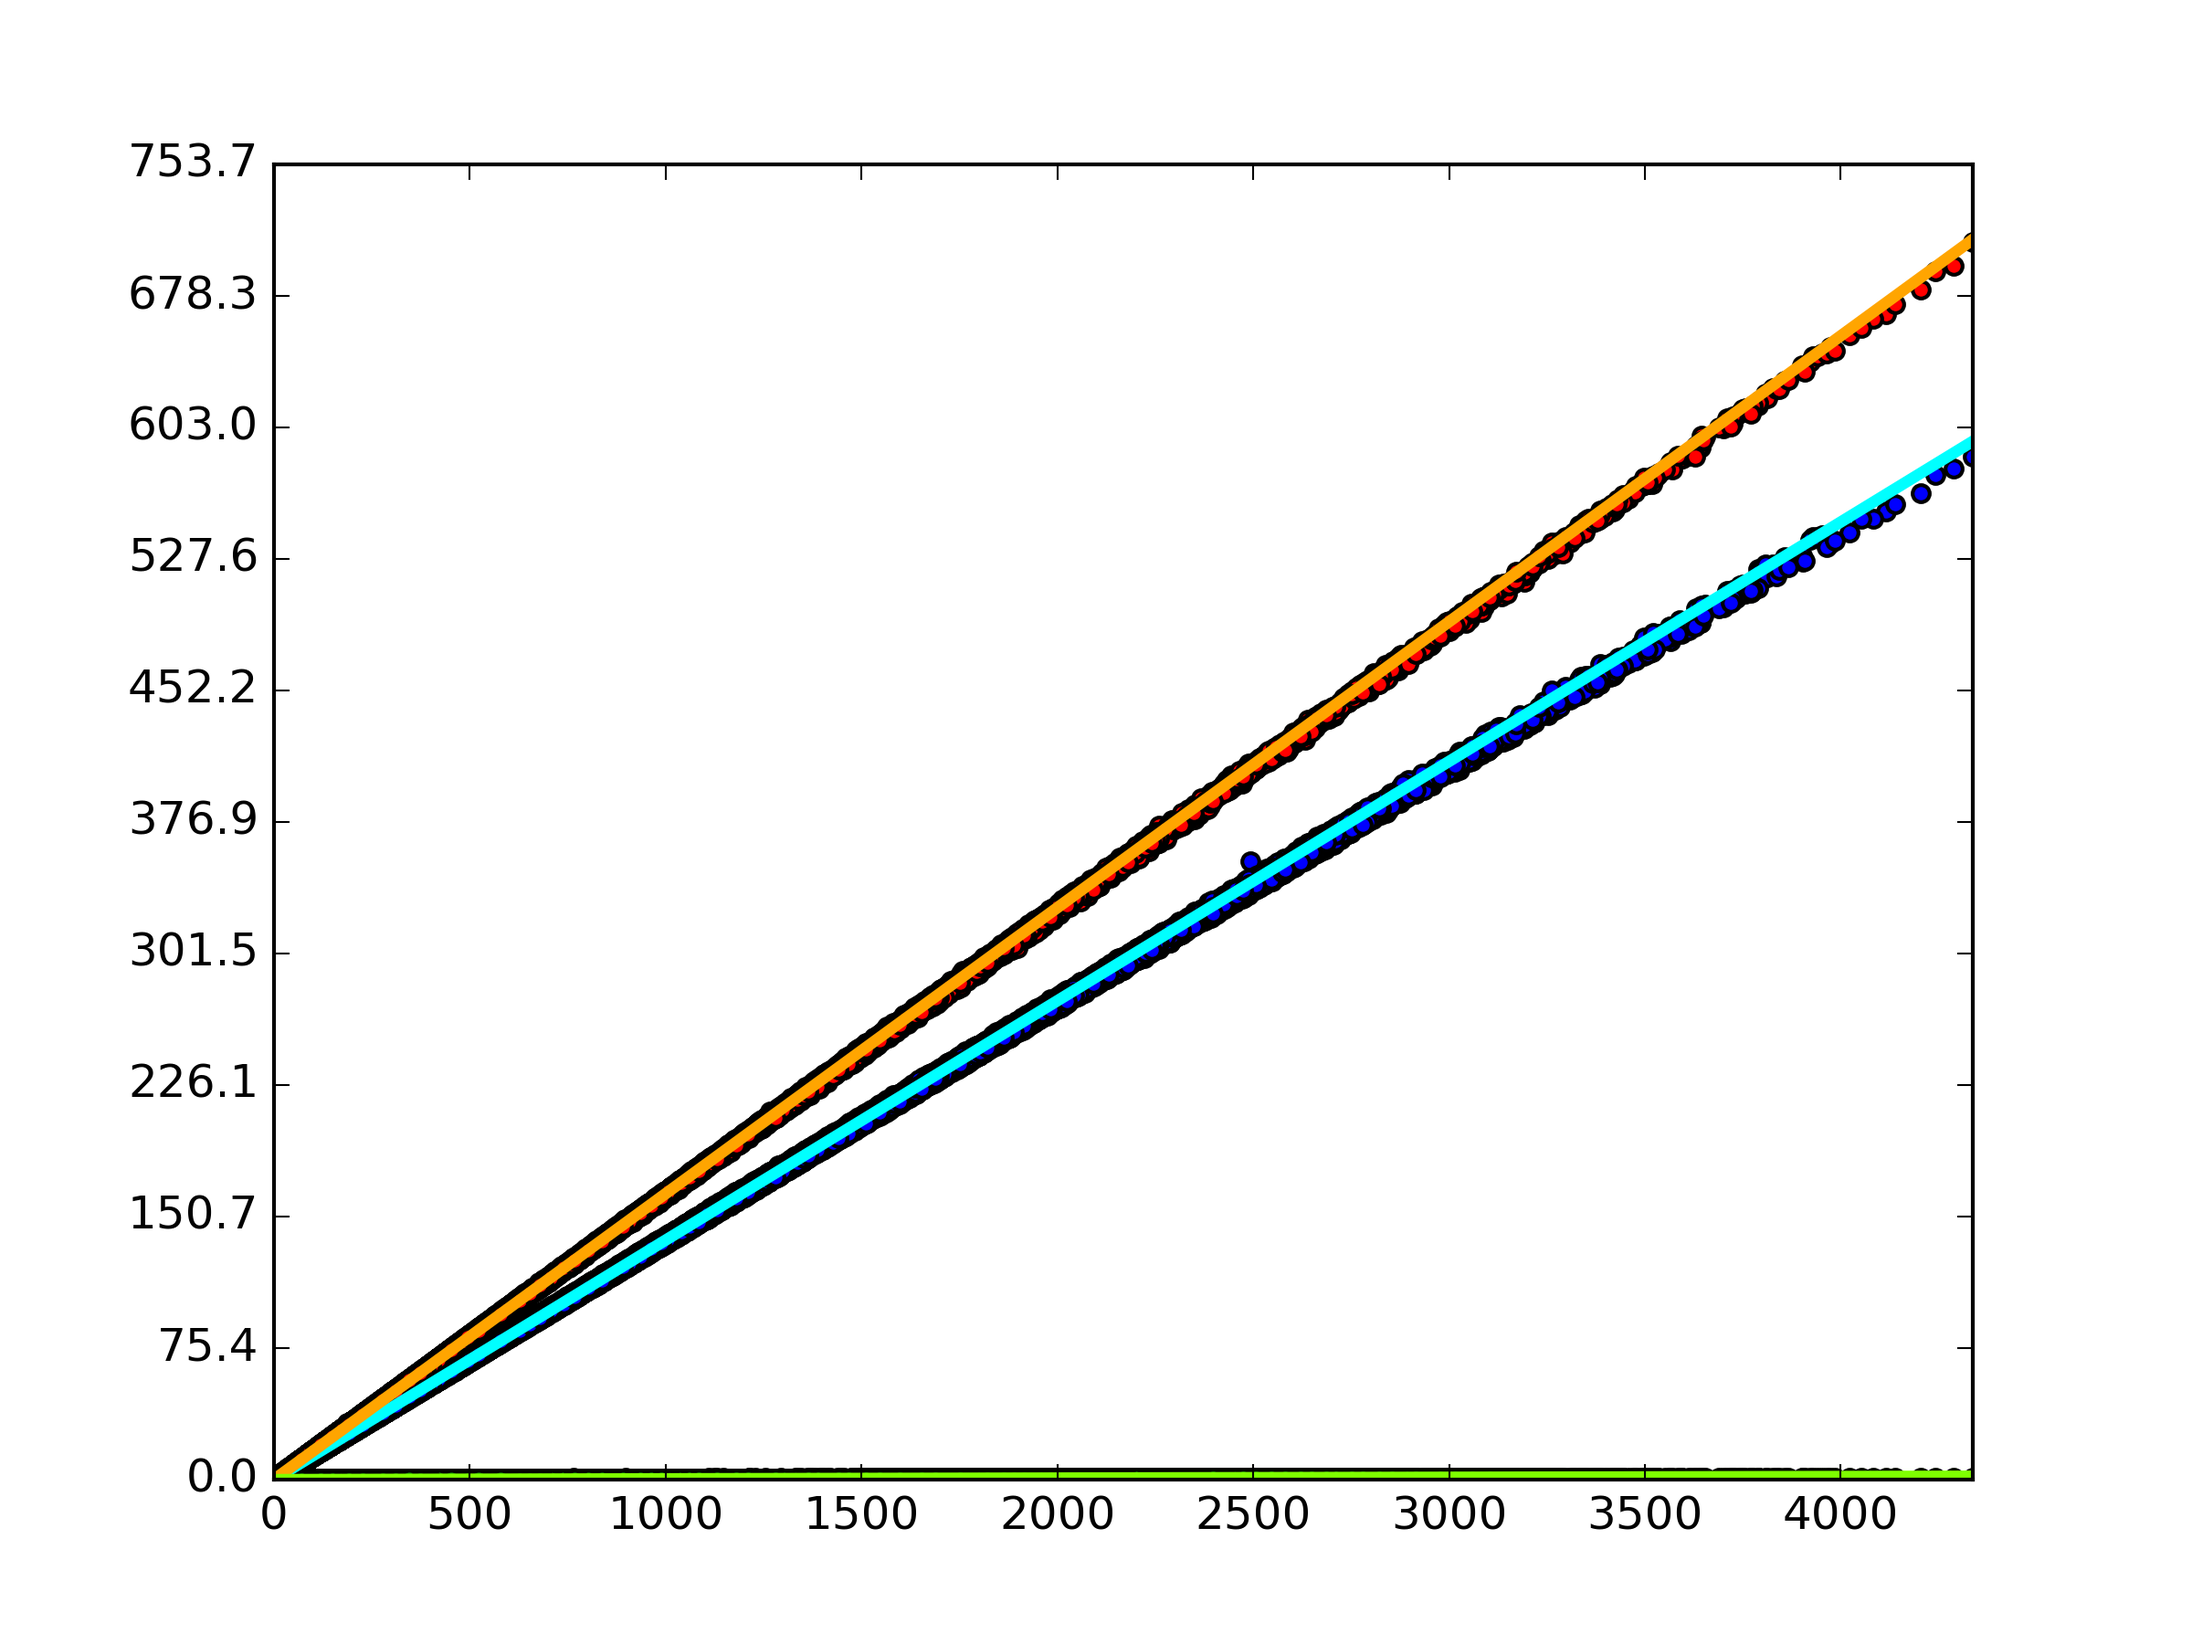
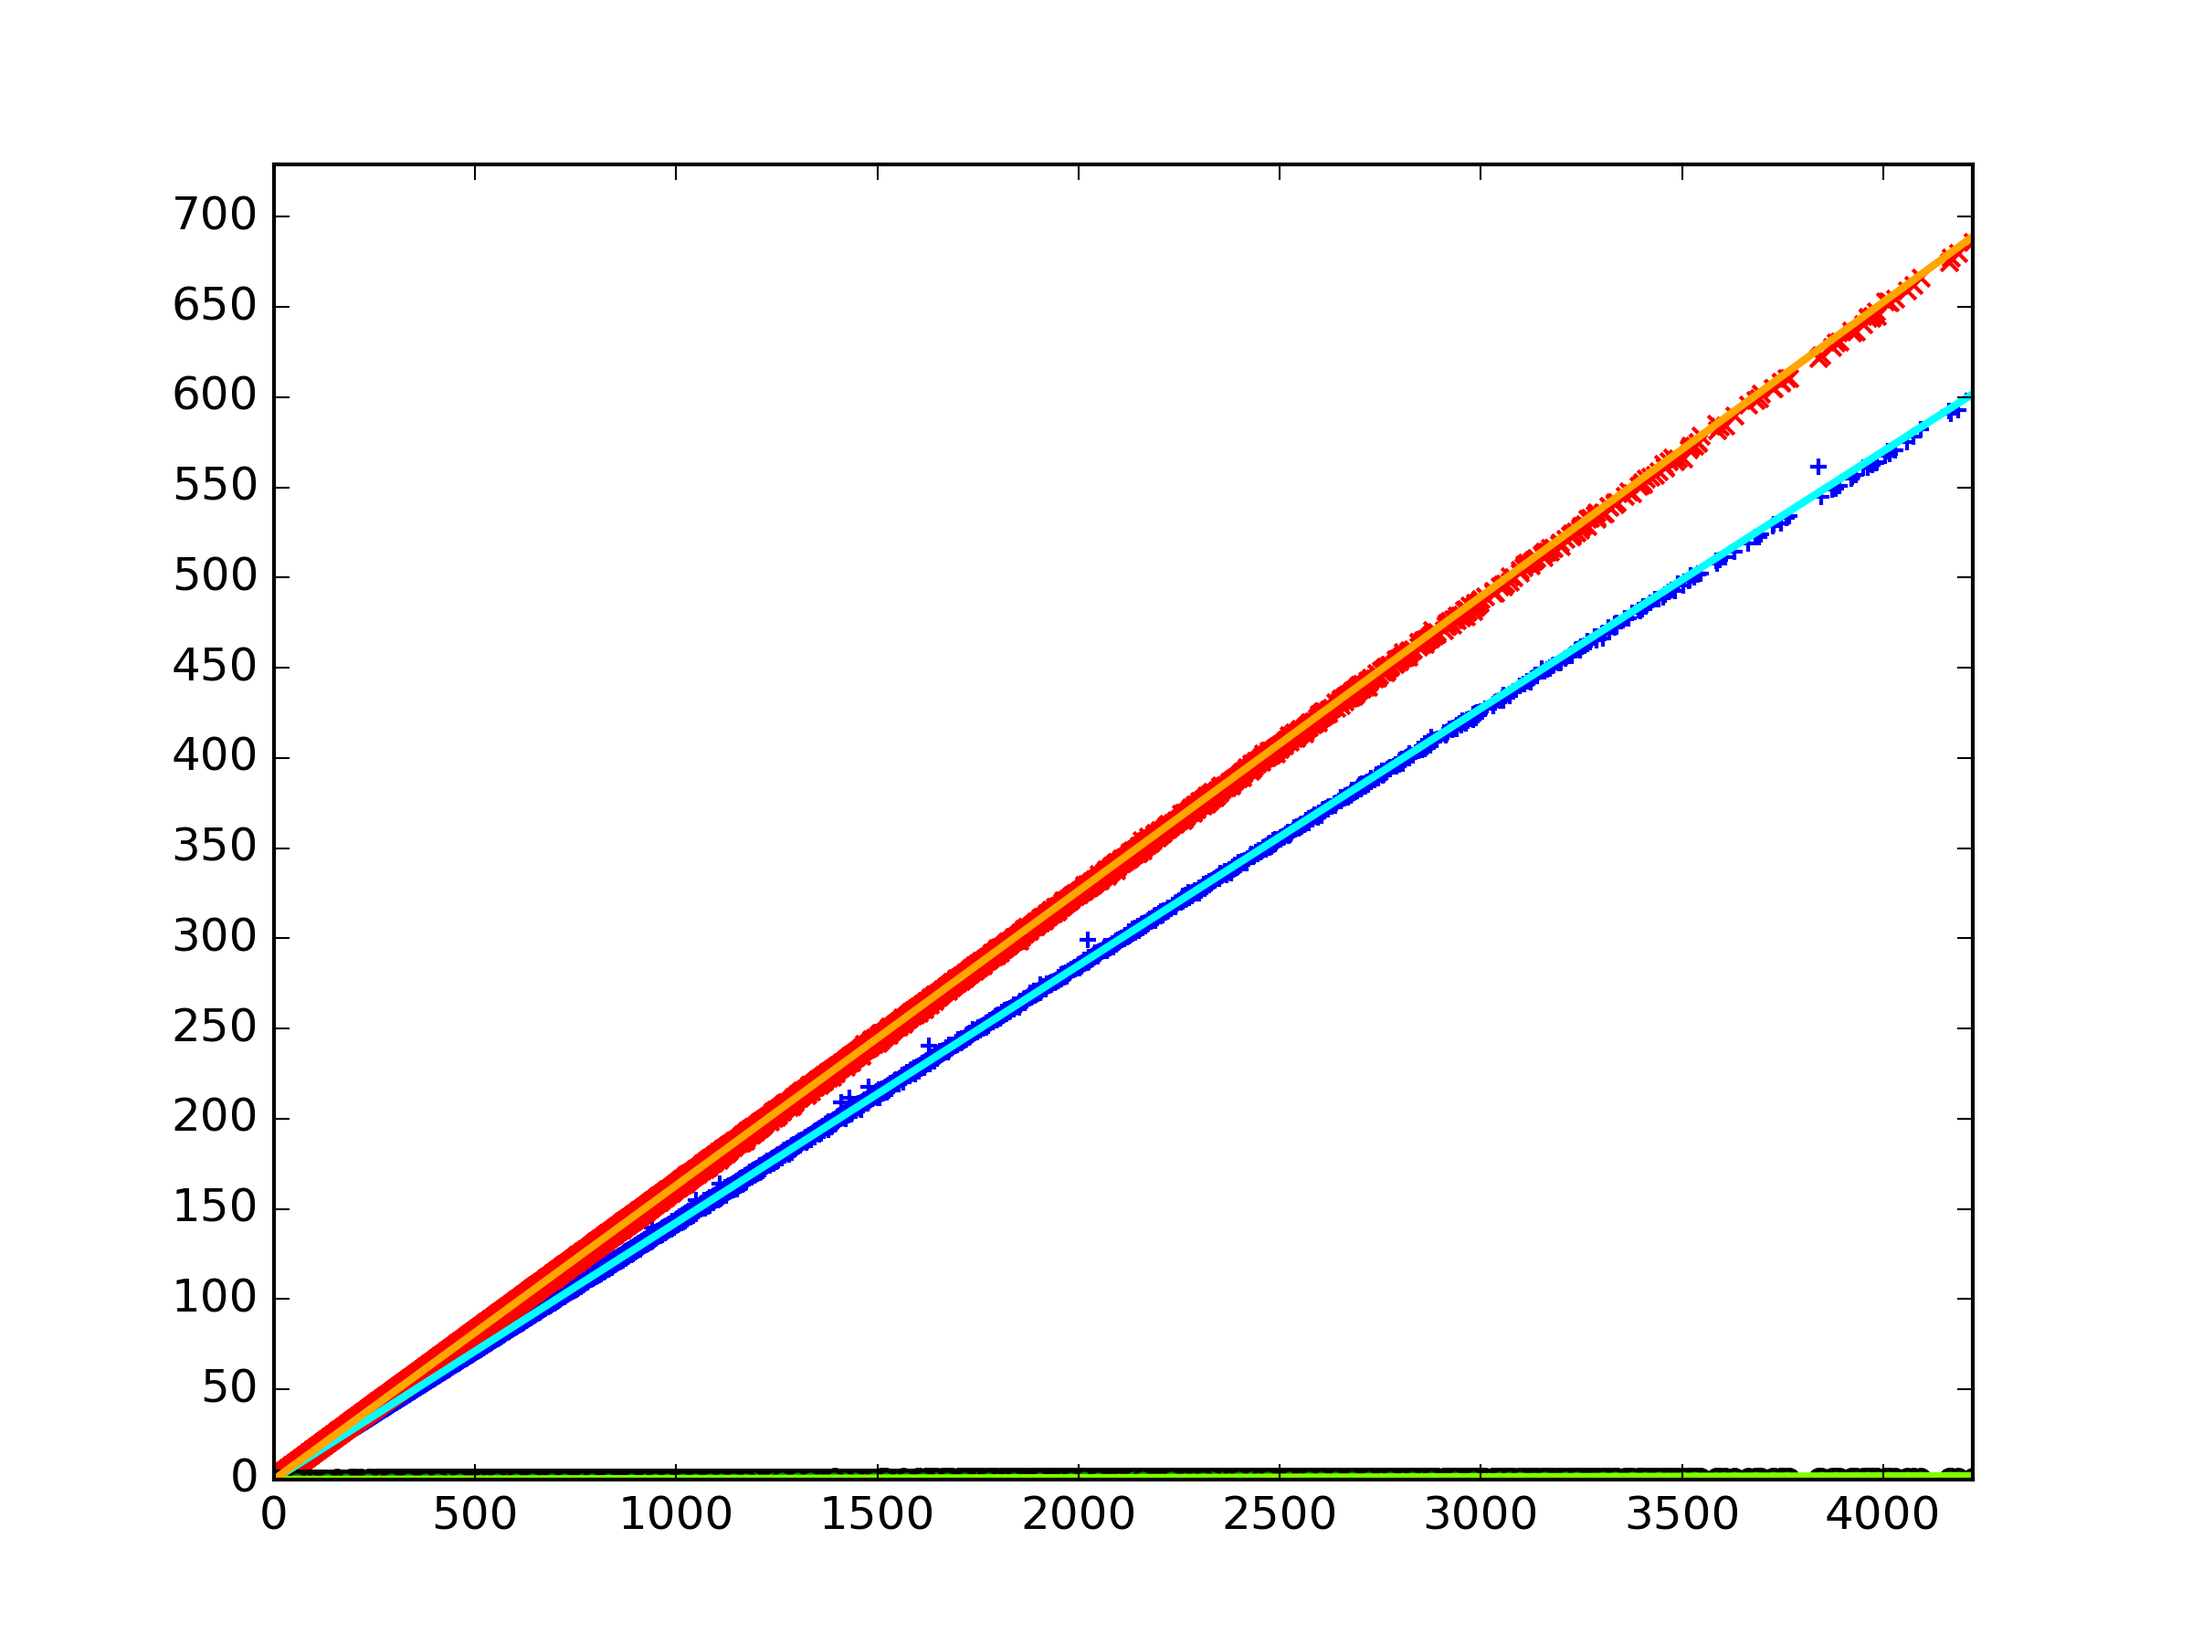
Fixed some issues with the figures, made the captions better   Changed the plot to use +'s, x's, and o's for the different methods Fixed some more issues with section 3 Removed the Ubuntu computer information, can't test it

diff --git a/resultantmethod.tex b/resultantmethod.tex
@@ -274,49 +274,38 @@ the results from the basic approximate and resultant comparison
 methods with the results from the increased precision approximate
 comparison method to verify the methods produced the same results.
 
-Three computers were used to test the methods.  The first computer has
-a Core i3 M370 processor with 2 cores and a 3 MB cache.  This
-processor does provide not a hardware implementation of FMA.  This
-computer has 4 GB of DDR3 memory clocked at 1 GHz.  It is running an
-up to date installation of Arch Linux with version 4.4 of the kernel.
-GCC 5.3 was used to compile the code for these tests.  For these
-tests, the performance manager was set to keep the CPU clock at 2.4
-GHz, and the process was run with a nice value of -20.
+Two computers were used to test the methods.  The first computer is
+the Arch computer, and it has a Core i3 M370 processor with 2 cores
+and a 3 MB cache.  The Arch computer has 4 GB of DDR3 memory clocked
+at 1 GHz.  It is running an up to date installation of Arch Linux with
+version 4.4 of the kernel.  GCC 6.1 was used to compile the code for
+these tests.  For these tests, the performance manager was set to keep
+the CPU clock at 2.4 GHz, and the process was run with a nice value of
+-20.
 
-The second computer has two Xeon E5-2643 processors with 4 cores and
-10 MB caches.  This processor does not provide a hardware
-implementation of FMA.  This computer has 32 GB of DDR3 memory running
-with a 1.6 GHz clock.  It is running Ubuntu 14.04 with version 3.13 of
-the kernel, and uses GCC 5.2 to compile the code for these tests.
-These tests were run with the default performance manager with a
-maximum CPU clock of 3.3 GHz, along with a nice value of -20.
-
-The third computer has a Core 2 Duo E6550 processor with two cores and
-a 4 MB cache.  This processor does not provide a hardware
-implementation of FMA.  This computer has 8 GB of DDR2 memory clocked
-at 667 MHz.  It is running an up to date installation of Gentoo Linux
-with version 4.0 of the kernel.  GCC 5.3 was used to compile the code
-for these tests.  For these tests, the performance manager was set to
-keep the CPU clock at 2.3 GHz, with a nice value of -20.
+The second computer is the Gentoo computer, and it has a Core 2 Duo
+E6550 processor with two cores and a 4 MB cache.  The Gentoo computer
+has 8 GB of DDR2 memory clocked at 667 MHz.  It is running an up to
+date installation of Gentoo Linux with version 4.1 of the kernel.  GCC
+4.9 was used to compile the code for these tests.  For these tests,
+the performance manager was set to keep the CPU clock at 2.3 GHz, with
+a nice value of -20.
 
 To get a better estimate of the relative performance of the two
 computers, the Geekbench benchmark was employed to estimate the
-processor speeds.  The Ubuntu computer had a single core floating
-point score of 2730.  The Arch computer had a single core floating
+processor speeds.  The Arch computer had a single core floating
 point score of 1702.  The Gentoo computer had a single core floating
-point score of 1408.  On average, the Ubuntu computer was capable of
-about 1.6 times more FLOPS than the Arch computer, and 1.9 times more
-FLOPS than the Gentoo computer.
+point score of 1408.
 
-The first step of the evaluation determines which quadric surfaces a
-given line intersects.  The discriminant of the
-quadratic~$p(t)=Q(l(t))$ is computed at the precision of the input
-line.  The sign of the discriminant determines whether the
-intersection is to be considered for sorting later.  This does not
-guarantee that the sign of the discriminant will be computed correctly
-in cases where the discriminant is close to zero, but this is okay
-because we are guaranteeing to sort intersections correctly, not to
-detect them.  If the intersection exists, the second step is to
+The first step to evaluate the intersection comparison methods
+determines which quadric surfaces a given line intersects.  The
+discriminant of the quadratic~$p(t)=Q(l(t))$ is computed at the
+precision of the input line.  The sign of the discriminant determines
+whether the intersection is to be considered for sorting later.  This
+does not guarantee that the sign of the discriminant will be computed
+correctly in cases where the discriminant is close to zero, but this
+is okay because we are guaranteeing to sort intersections correctly,
+not to detect them.  If the intersection exists, the second step is to
 compute the roots at machine precision.  These roots are needed to
 determine if the order of a pair of intersections is ambiguous or not.
 Finally, the stl sort algorithm is used to sort the intersections.
@@ -379,16 +368,16 @@ shown in Figure \ref{fig:testScenes}.
 To analyze the results, we computed the least squares linear fit of
 the timing data.  For the Packed Spheres, we used the number of
 comparisons made as our independent variable, and computed a linear
-coefficient for it along with a constant term.  For the set of Nested
-Spheres, we were able to aggregate the test results for each type
-of scene.  This allowed us to fit the line to two independent
-variables; the number of comparisons made, and the number of quadric
-surfaces in the scene.  Fitting the time it takes to make a comparison
-to a linear relationship makes sense, as the bulk of the sorting time
-is taken up by performing these comparisons.  It also makes sense for
-the time to be linearly related to the number of quadrics in the
-scene, as the cached values are only computed once for each quadric,
-and are likely to significantly affect the time a comparison takes.
+coefficient for it along with a constant term.  For the Nested Spheres
+set of scenes, we aggregated the test results for the scenes so we
+could fit the line to two independent variables; the number of
+comparisons made, and the number of quadric surfaces in the scene.
+Fitting the time it takes to make a comparison to a linear
+relationship makes sense, as the bulk of the sorting time is taken up
+by performing these comparisons.  It also makes sense for the time to
+be linearly related to the number of quadrics in the scene, as the
+cached values are only computed once for each quadric, and are likely
+to significantly affect the time a comparison takes.
 
 \section{Experimental Results}
 The results of the experiments are shown in Table \ref{tab:times}.
@@ -426,10 +415,11 @@ which should be considered.
 
 \begin{figure}
   \includegraphics[width=0.55\textwidth]{imgs/hardEllipsoidsSingle_gentoo_adjusted.png}
-  \caption{Number of Comparisons vs. the Evaluation Time (ms); 100k
-    tests on the Gentoo machine; {\bf Red: Approximation Method at
-      $24\times$ the Input Precision}; {\bf Green: Approximation
-      Method at Input Precision}; {\bf Blue: Resultant Method}}
+  \caption{Evaluation Time for a Line (ms) vs. the Number of
+    Comparisons; 100k lines sorting on the Gentoo machine; {\bf Green:
+      Approximation Method at Input Precision}; {\bf Red:
+      Approximation Method at $24\times$ the Input Precision}; {\bf
+      Blue: Resultant Method}}
   \label{fig:linefit}
 \end{figure}
 
@@ -438,8 +428,9 @@ tests.  It appears to confirm our expectation that the time required
 is linearly coorelated with the number of precision increases.
 
 \begin{table*}
-%  \captionsetup{oneside, margin={1cm,0cm}, width=\textwidth}
-  \caption{Timing Results of the Approximate Comparison and Resultant Comparison}
+  \caption{Timing Results of the Approximate Comparison and Resultant
+    Comparison, 100k lines in the Packed Spheres test, 1100k lines in
+    the set of 11 Nested Spheres tests}
   \label{tab:times}
   \input{comparison_table.tex}
 \end{table*}

diff --git a/comparison_table.tex b/comparison_table.tex
@@ -1,29 +1,23 @@
 \begin{tabular}{|l|l|ll|lll|l|}
 \hline
-Machine & Scene & Method & Disagreements & $\frac{\text{ms}}{\text{Quadric}}$ & $\frac{\text{ms}}{\text{Comparison}}$ & Constant $\text{ms}$ & Residual ($\text{ms}^2$)\\
+Scene & Machine & Method & Errors & ms/Quadric & ms/Comp & Const ms & $\sum$ Residual ($\text{ms}^2$)\\
 \hhline{|=|=|==|===|=|}
-Ubuntu & Packed & Increased Prec. & \hphantom{1}--- & -- & \hphantom{-}0.06823 & \hphantom{-}5.399 & \hphantom{10}1194.8288\\
-& Spheres & Approximate & 103 & -- & -0.009685 & \hphantom{-}5.399 & \hphantom{10}1161.2192\\
-&& Resultant & \hphantom{1}89 & -- & \hphantom{-}0.05687 & \hphantom{-}5.408 & \hphantom{10}1194.1208\\
-\hline
-& Nested & Increased Prec. & \hphantom{1}--- & 0.004163 & \hphantom{-}0.07064 & -0.002835 & \hphantom{1}28554.479\\
-& Spheres & Approximate & \hphantom{1}13 & 0.004098 & \hphantom{-}0.000255 & -0.001070 & \hphantom{10}2806.9520\\
-&& Resultant & \hphantom{10}0 & 0.004309 & \hphantom{-}0.05846 & \hphantom{-}0.007079 & \hphantom{1}32989.590\\
-\hline
-Arch & Packed & Increased Prec. & \hphantom{1}--- & -- & \hphantom{-}0.1364 & \hphantom{-}4.893 & \hphantom{100}334.98312\\
-& Spheres & Approximate & \hphantom{1}85 & -- & \hphantom{-}0.000304 & \hphantom{-}4.942 & \hphantom{100}316.04740\\
-&& Resultant & \hphantom{1}75 & -- & \hphantom{-}0.1139 & \hphantom{-}4.921 & \hphantom{100}327.24112\\
-\hline
-& Nested & Increased Prec. & \hphantom{1}--- & 0.003835 & \hphantom{-}0.1157 & \hphantom{-}0.05856 & 582387.69\\
-& Spheres & Approximate & \hphantom{1}11 & 0.003864 & \hphantom{-}0.000591 & -0.01970 & \hphantom{10}7533.7867\\
-&& Resultant & \hphantom{10}1 & 0.004088 & \hphantom{-}0.09580 & \hphantom{-}0.05074 & 558251.79\\
-\hline
-Gentoo & Packed & Increased Prec. & \hphantom{1}--- & -- & \hphantom{-}0.1711 & \hphantom{-}4.522 & \hphantom{100}255.93646\\
-& Spheres & Approximate & \hphantom{1}94 & -- & \hphantom{-}0.004651 & \hphantom{-}4.513 & \hphantom{100}256.48723\\
-&& Resultant & \hphantom{1}84 & -- & \hphantom{-}0.1424 & \hphantom{-}4.551 & \hphantom{100}258.49985\\
-\hline
-& Nested & Increased Prec. & \hphantom{1}--- & 0.003670 & \hphantom{-}0.1639 & \hphantom{-}0.02020 & \hphantom{1}62122.965\\
-& Spheres & Approximate & \hphantom{1}19 & 0.003562 & \hphantom{-}0.000446 & -0.003482 & \hphantom{10}3327.8361\\
-&& Resultant & \hphantom{10}0 & 0.003892 & \hphantom{-}0.1372 & \hphantom{-}0.06507 & 176409.02\\
+\hhline{|~|-|--|---|-|}
+Packed & Gentoo & Approximate & \hphantom{00}0 & -- & \hphantom{-}0.170 & \hphantom{-}4.53 & \hphantom{0000}\hphantom{-}28.0337\\
+Spheres &  & Increased Prec. & \hphantom{00}0 & -- & \hphantom{-}0.00125 & \hphantom{-}4.51 & \hphantom{0000}\hphantom{-}27.6358\\
+ &  & Approximate & \hphantom{-}--- & -- & \hphantom{-}0.170 & \hphantom{-}4.53 & \hphantom{0000}\hphantom{-}28.0337\\
+\hhline{|~|-|--|---|-|}
+ & Arch & Approximate & \hphantom{00}0 & -- & \hphantom{-}0.180 & \hphantom{-}4.53 & \hphantom{00000}\hphantom{-}2.63014\\
+ &  & Increased Prec. & \hphantom{00}0 & -- & \hphantom{-}0.00920 & \hphantom{-}4.53 & \hphantom{00000}\hphantom{-}2.45960\\
+ &  & Approximate & \hphantom{-}--- & -- & \hphantom{-}0.180 & \hphantom{-}4.53 & \hphantom{00000}\hphantom{-}2.63014\\
+\hhline{|-|-|--|---|-|}
+\hhline{|~|-|--|---|-|}
+Nested & Gentoo & Approximate & \hphantom{00}0 & 0.00366 & \hphantom{-}0.163 & -0.00707 & \hphantom{0}\hphantom{-}19464.8\\
+Spheres &  & Increased Prec. & \hphantom{00}0 & 0.00349 & \hphantom{-}0.000497 & -0.00436 & \hphantom{00}\hphantom{-}1318.61\\
+ &  & Approximate & \hphantom{-}--- & 0.00366 & \hphantom{-}0.163 & -0.00707 & \hphantom{0}\hphantom{-}19464.8\\
+\hhline{|~|-|--|---|-|}
+ & Arch & Approximate & \hphantom{00}0 & 0.00350 & \hphantom{-}0.164 & \hphantom{-}0.0230 & \hphantom{0000}\hphantom{-}45.3631\\
+ &  & Increased Prec. & \hphantom{00}0 & 0.00348 & \hphantom{-}0.000397 & \hphantom{-}0.000262 & \hphantom{00000}\hphantom{-}1.12566\\
+ &  & Approximate & \hphantom{-}--- & 0.00350 & \hphantom{-}0.164 & \hphantom{-}0.0230 & \hphantom{0000}\hphantom{-}45.3631\\
 \hline
 \end{tabular}
